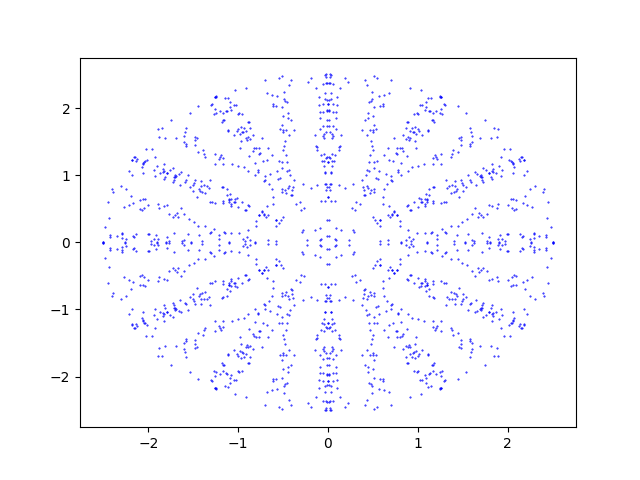
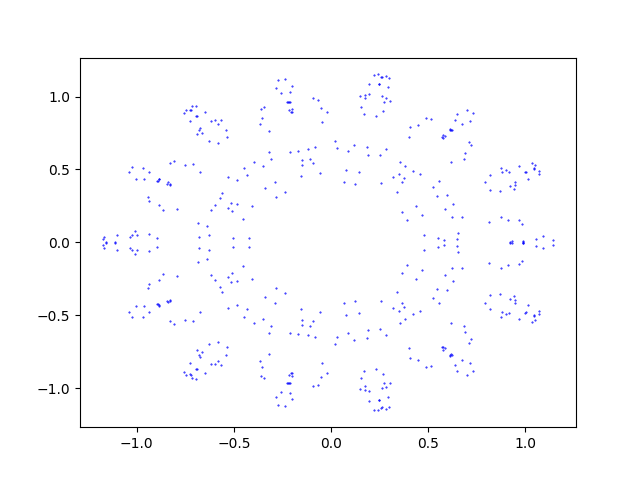
tweaked params

diff --git a/snowflake_tools.py b/snowflake_tools.py
@@ -7,7 +7,7 @@ def cost(grid, pt):
     if N==0:
         return 0
     if N==1:
-        return 0.1
+        return 0.01
     if N >10:
         return np.exp(-1 *N)
     
@@ -60,8 +60,10 @@ def generate_snowflake(sliver_bounds = [3,8], start_points=7, n_itter=5000, spaw
         quad = [np.real(full_grid * np.exp(1j*2*np.pi * ang / n_slivers)), np.imag(full_grid * np.exp(1j*2*np.pi * ang / n_slivers))]
         full_map.append(quad)
 
-    full_map = np.hstack(np.array(full_map))
-    return full_map.T
+    full_map = np.hstack(np.array(full_map)).T
+    args_list = np.argsort(full_map[:,0]**2 + full_map[:,1]**2)
+    full_map = full_map[args_list]
+    return full_map
 
 if __name__=="__main__":
     import matplotlib.pyplot as plt
